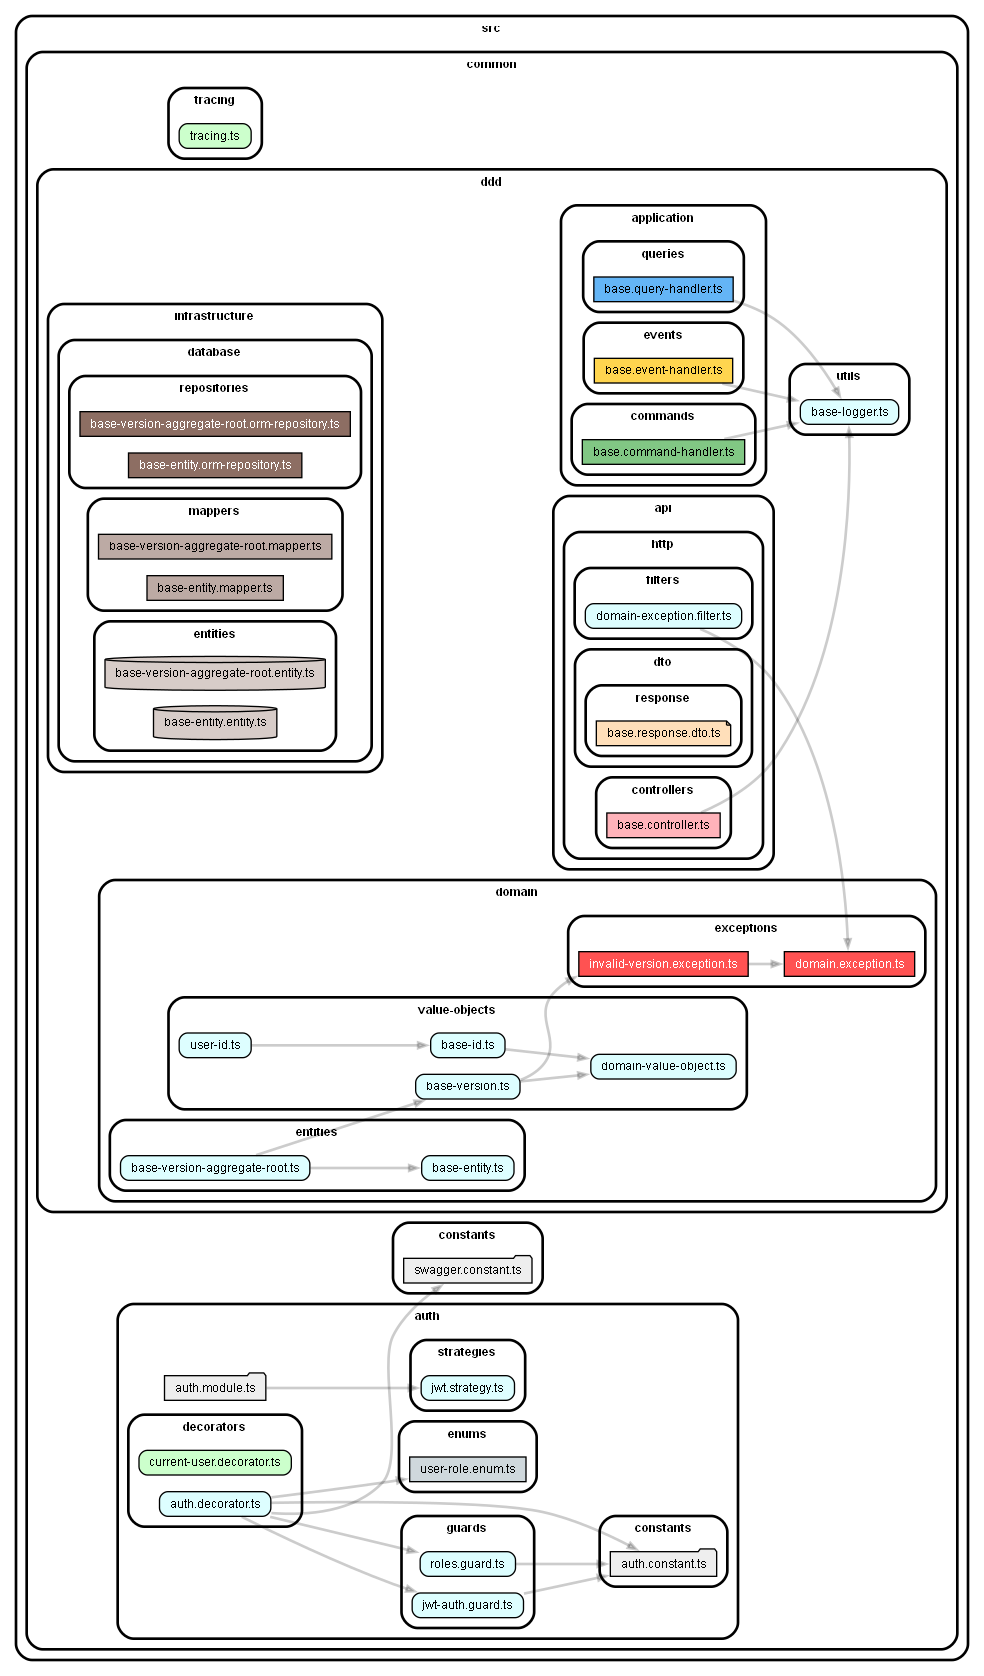
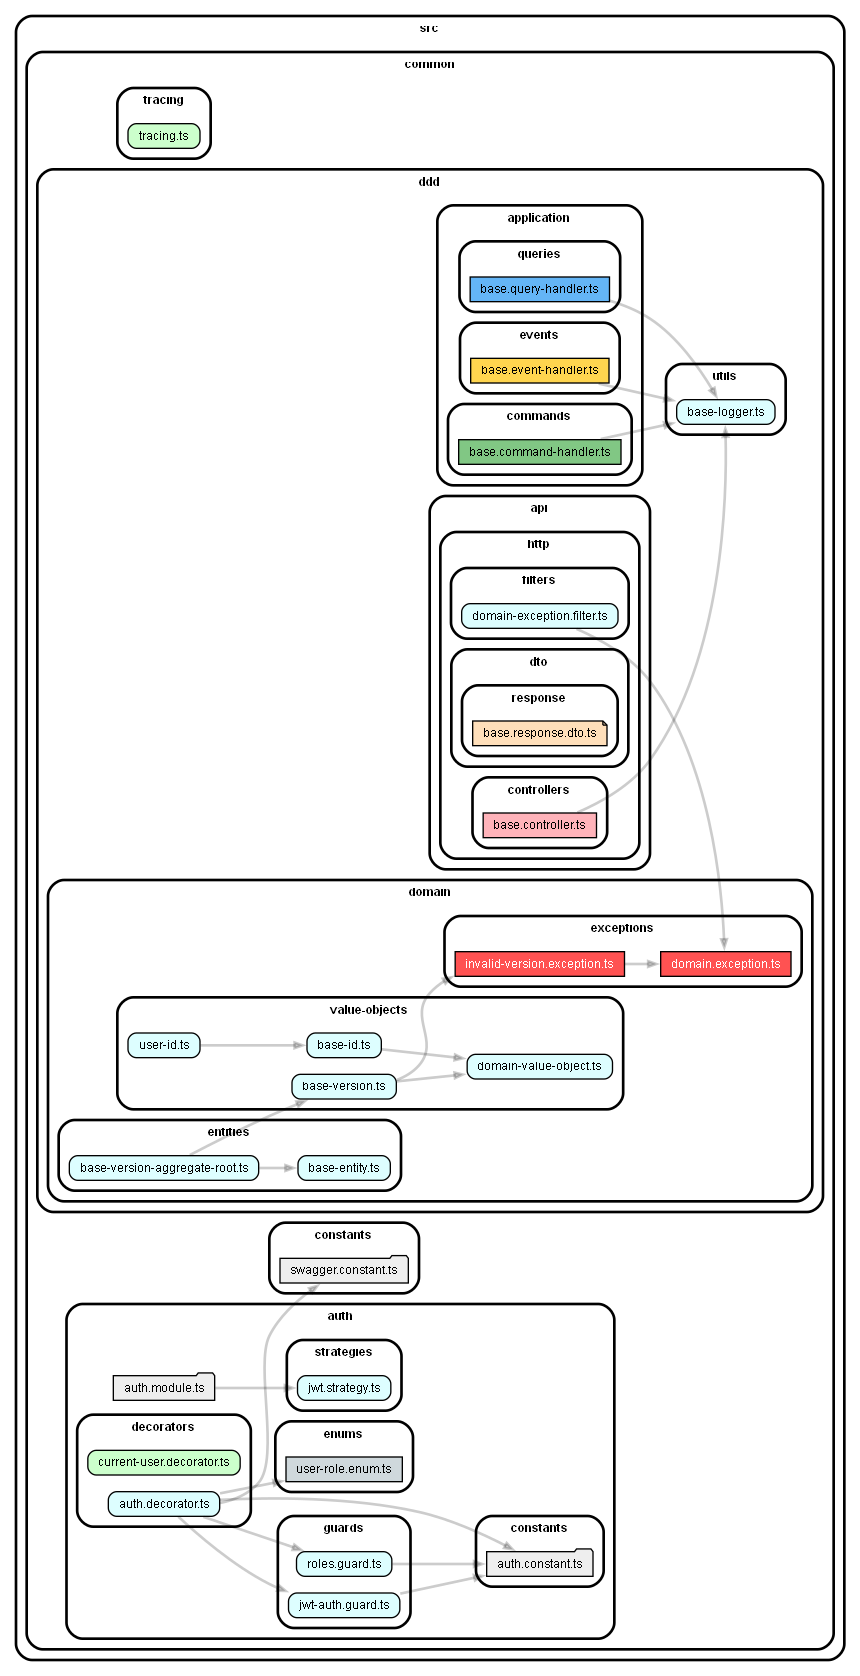
refactor: remove empty ddd infrastructure placeholders and update barrels

Changed region(s): [[0.0, 0.0, 0.7558, 0.9928], [0.4837, 0.0, 0.9977, 0.9928], [0.1209, 0.031, 0.2721, 0.0931]]

diff --git a/src/index.ts b/src/index.ts
@@ -25,11 +25,5 @@ export * from './common/ddd/domain/value-objects/base-id';
 export * from './common/ddd/domain/value-objects/base-version';
 export * from './common/ddd/domain/value-objects/domain-value-object';
 export * from './common/ddd/domain/value-objects/user-id';
-export * from './common/ddd/infrastructure/database/entities/base-entity.entity';
-export * from './common/ddd/infrastructure/database/entities/base-version-aggregate-root.entity';
-export * from './common/ddd/infrastructure/database/mappers/base-entity.mapper';
-export * from './common/ddd/infrastructure/database/mappers/base-version-aggregate-root.mapper';
-export * from './common/ddd/infrastructure/database/repositories/base-entity.orm-repository';
-export * from './common/ddd/infrastructure/database/repositories/base-version-aggregate-root.orm-repository';
 export * from './common/ddd/utils/base-logger';
 export * from './common/tracing/tracing';